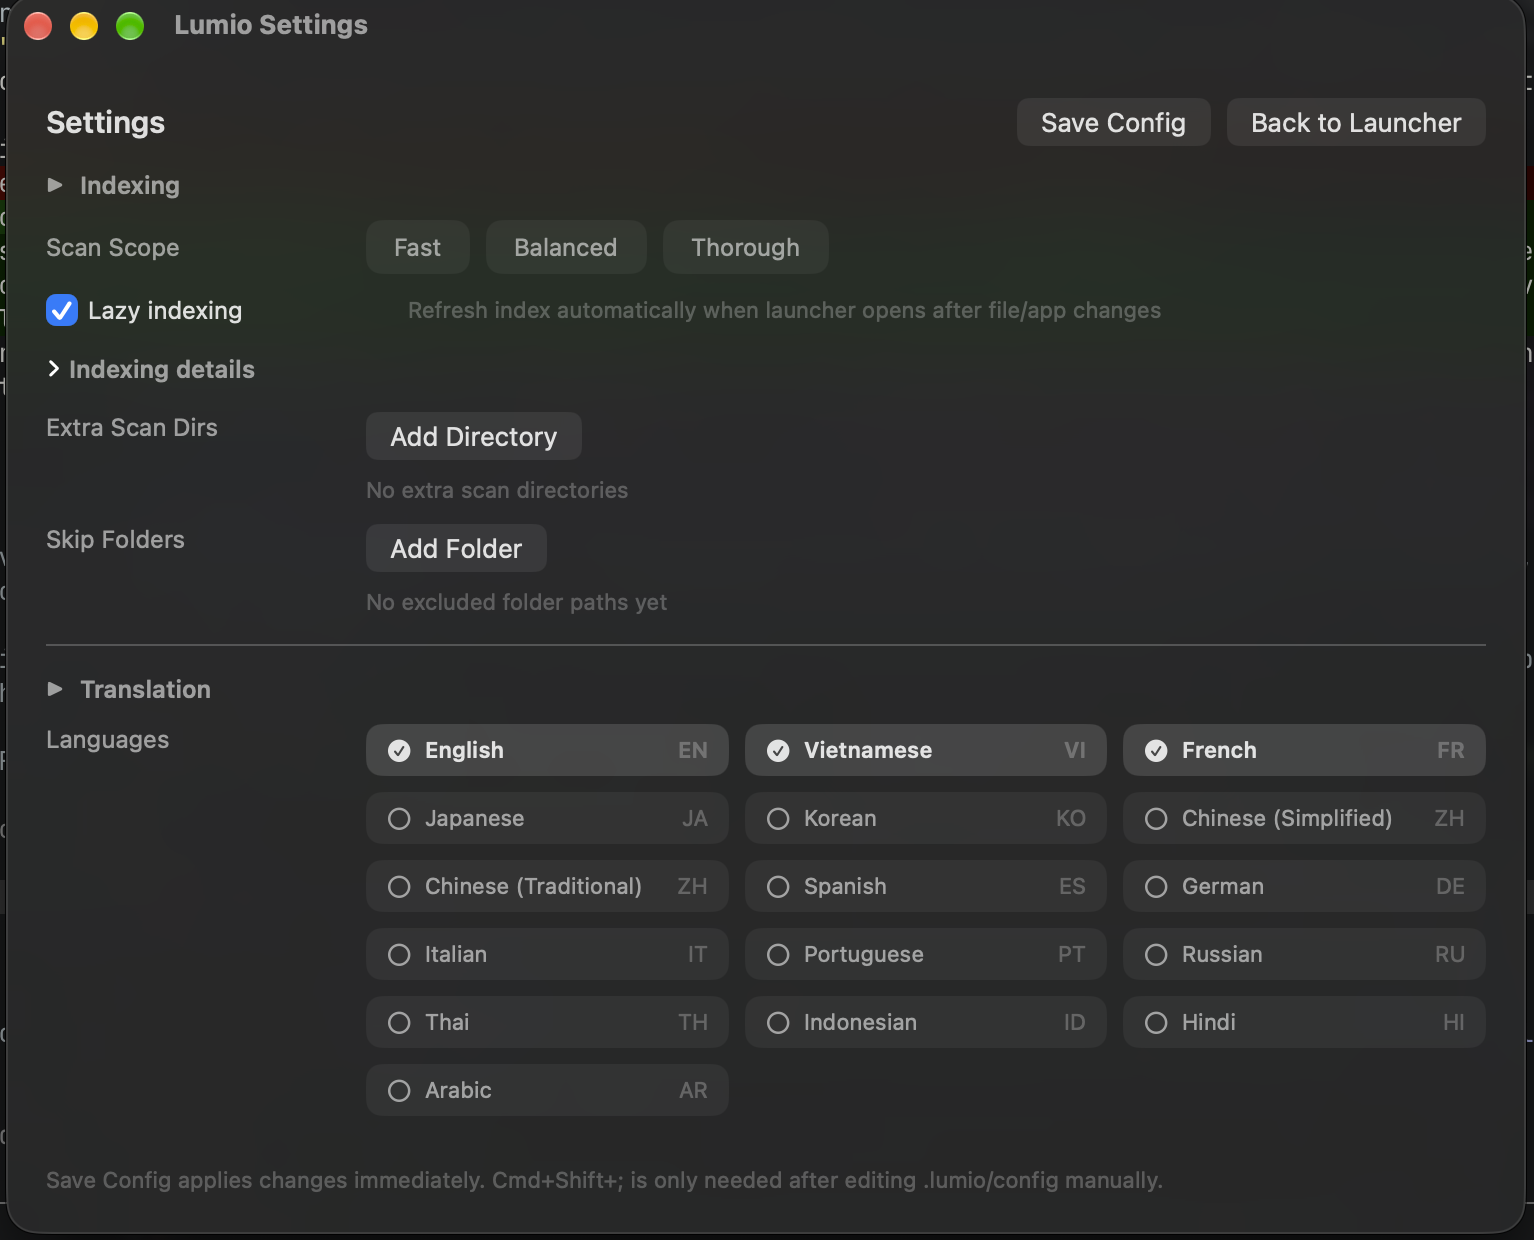
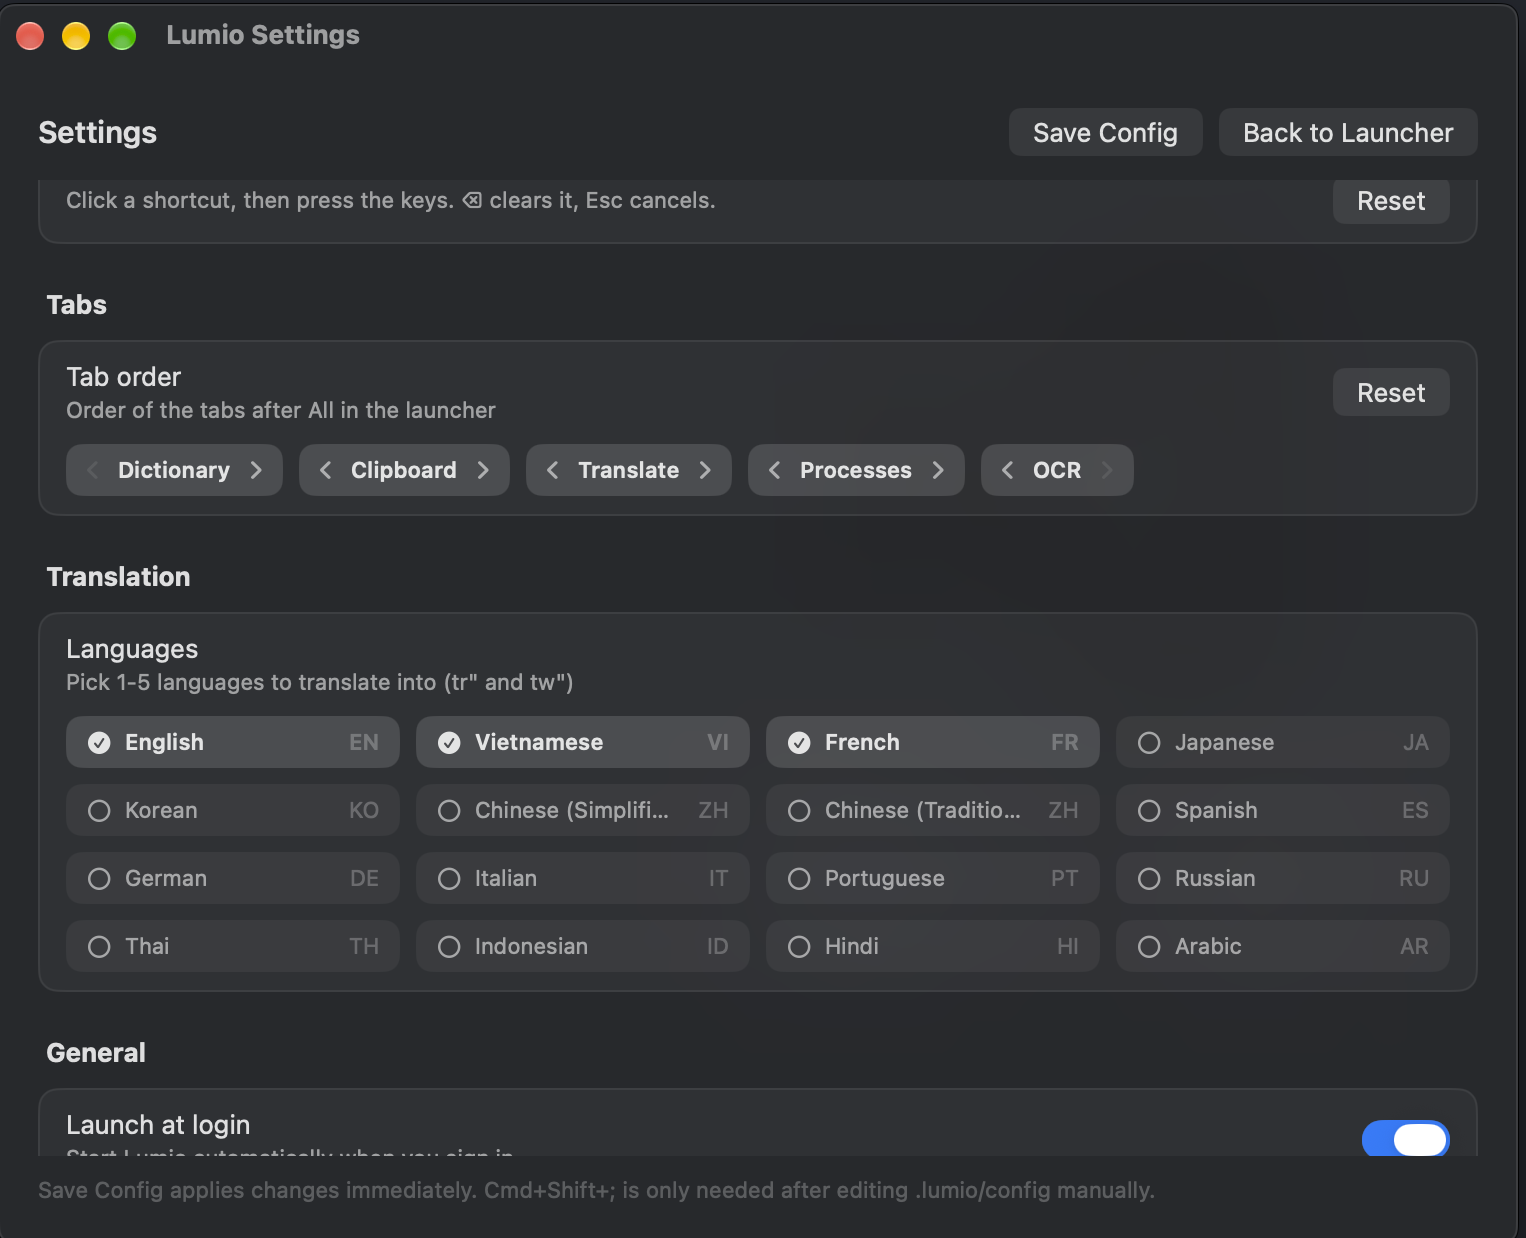
fix: update readme

diff --git a/README.md b/README.md
@@ -38,6 +38,35 @@
   <img src="assets/lumio-ui/4.png" alt="Lumio Setting" height="300">
 </p>
 
+## How Lumio compares
+
+Lumio is in the same family as Spotlight, Alfred and Raycast: a keyboard launcher for apps, files and quick tools. The difference is that Lumio is free and open source, and it adds OCR search inside images and PDFs and a dictionary lookup on any selected word.
+
+| | Lumio | Spotlight | [Alfred](https://www.alfredapp.com) | [Raycast](https://www.raycast.com) |
+| --- | --- | --- | --- | --- |
+| Price | Free | Free, built into macOS | Free core; paid Powerpack license for workflows, clipboard and snippets | Free core; paid Pro plan for cloud sync and AI |
+| Open source | Yes (GPL-3.0) | No | No | No |
+| Platform | macOS 15+, Apple Silicon | macOS | macOS | macOS |
+| App and file search | Yes | Yes | Yes | Yes |
+| Calculator | Yes (`+ - * / % ^ ()`) | Yes | Yes | Yes |
+| Clipboard history | Yes | — | Yes (Powerpack) | Yes |
+| OCR search in images and PDFs | Yes, dedicated tab | PDF text | Via workflows | Via extensions |
+| Dictionary lookup on selected text | Yes, `Option+Space` | Yes (Look Up) | Via workflows | Via extensions |
+| Translation | Yes, on-device with Apple's Translation framework, no API key | — | Via workflows | Via extensions |
+| Extensions and workflows | No, built-in modes only | Limited (Shortcuts) | Yes, large workflow community | Yes, extension store (TypeScript) |
+| Window management | No | No | Via workflows | Yes, built in |
+| AI chat | No | — | Via workflows | Yes (Pro) |
+
+**Choose Lumio if** you want a free, open-source launcher that keeps your files and clipboard on your Mac, finds text inside screenshots and scanned PDFs, and does not need an account or a subscription.
+
+**Choose Raycast or Alfred if** you need an extension ecosystem, window management, AI chat or a large library of ready-made workflows. Both are more mature and more extensible than Lumio.
+
+**Choose Spotlight if** you want zero setup and only need basic app, file and web search. It is already on your Mac.
+
+**Lumio's limits.** No plugin or workflow system, no window management, no AI features, no cloud sync, and it runs only on Apple Silicon Macs with macOS 15 or later.
+
+_Competitor features and pricing change often. Check their websites for the latest details._
+
 ## Install
 
 Requires macOS 15 or later on Apple Silicon.
